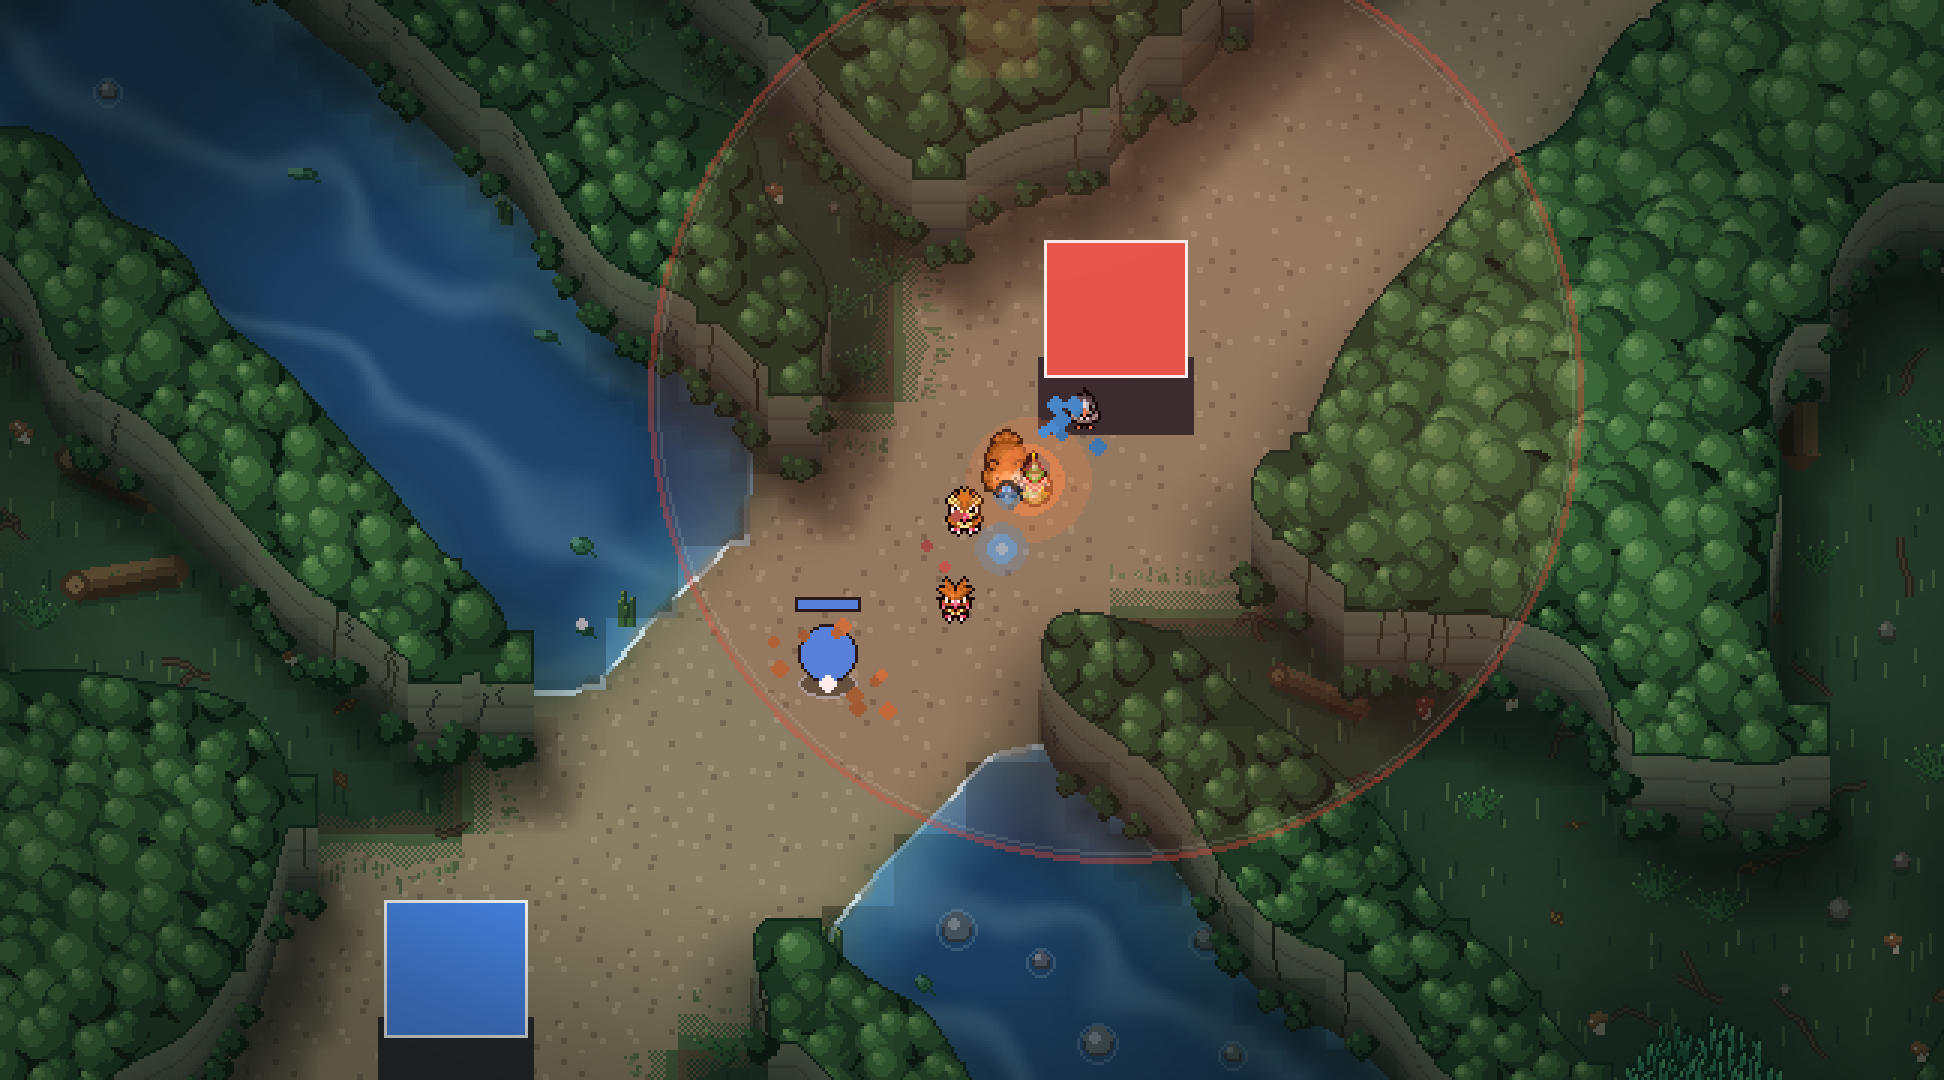
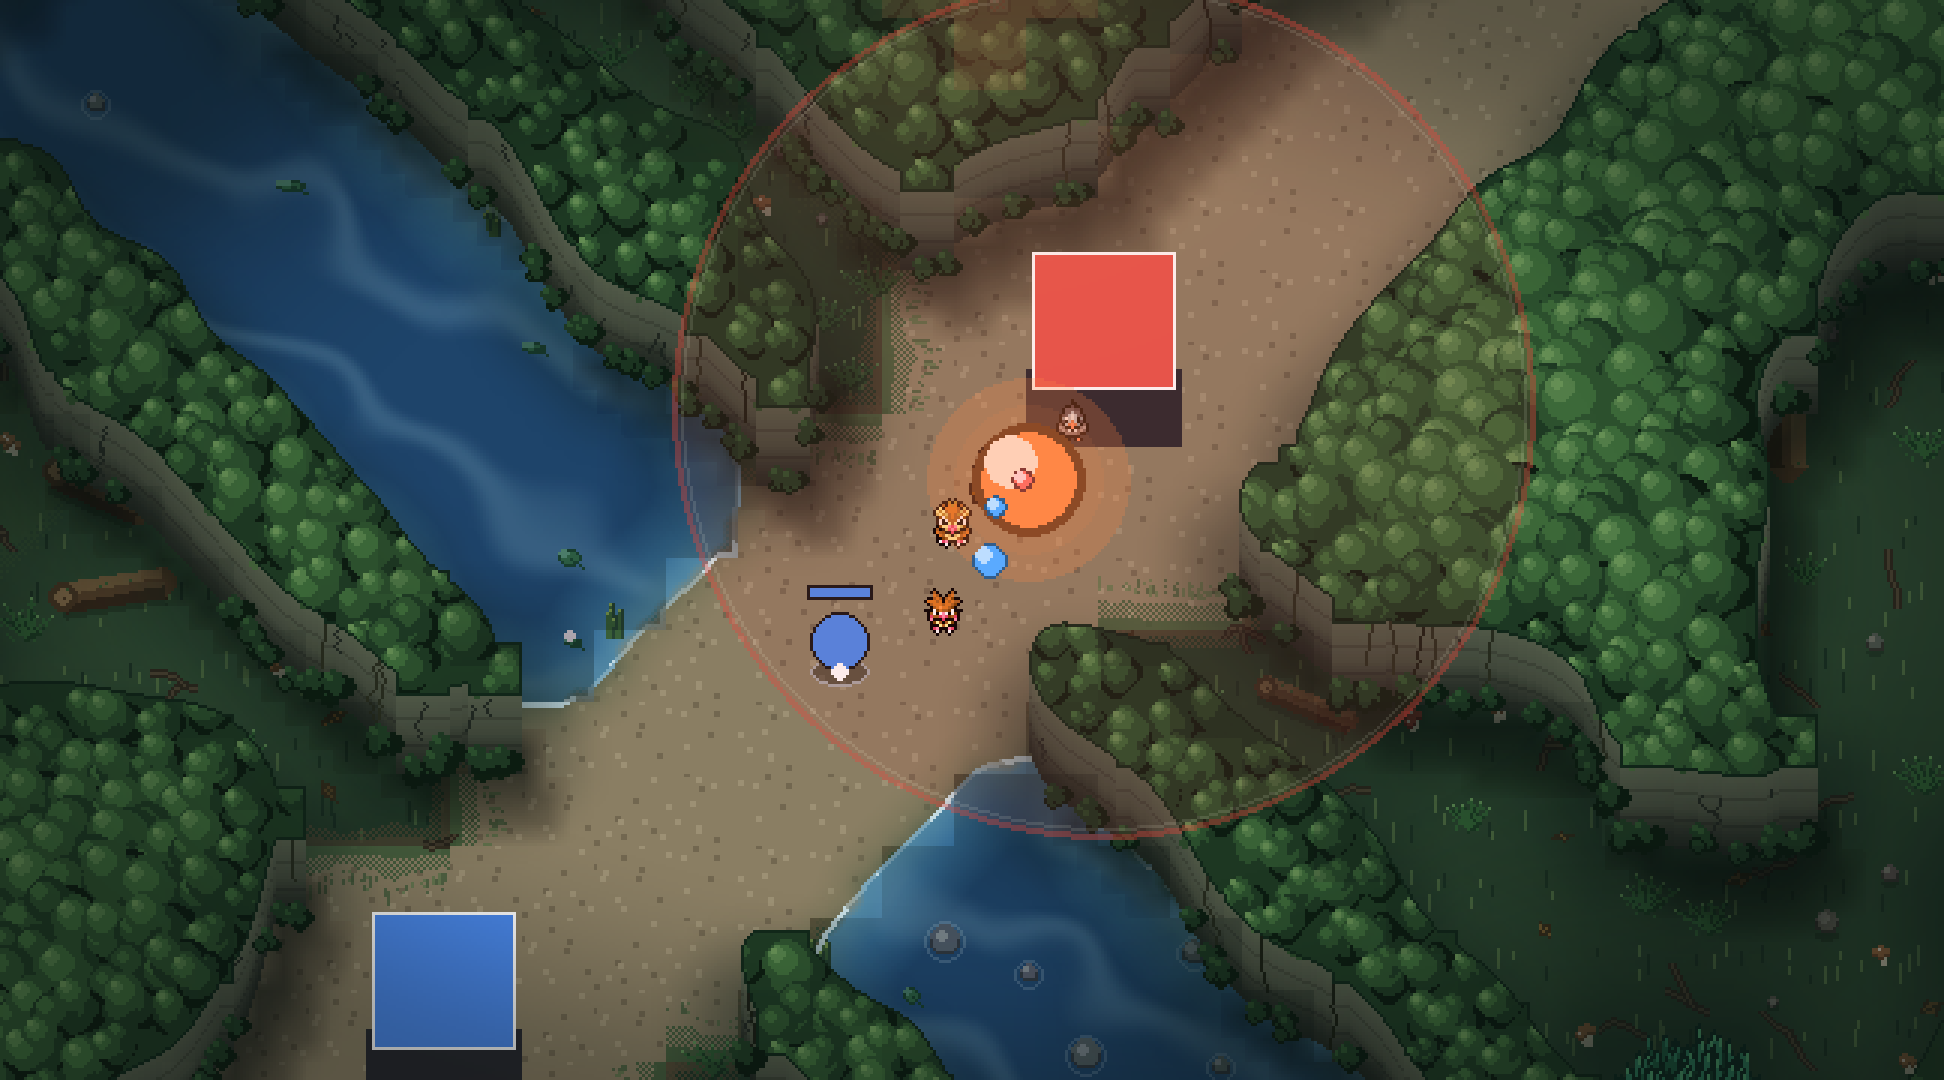
Proiettili opachi senza scia, sfera torre piu grande, gittata torre 750u (6.0 tile)
- fx.py: nuova forma "shot" opaca (sfera piena, contorno, luce alto-sx) senza
  particelle; sfera della torre molto piu grande con alone
- Gittata torri definita in unit (config.TOWER_RANGE = 750/125 = 6.0 tile),
  usata da match/world/renderer
- Screenshot step_21 aggiornati

diff --git a/game/fx.py b/game/fx.py
@@ -57,6 +57,10 @@ def _lighten(c, f=0.55):
             int(c[2] + (255 - c[2]) * f))
 
 
+def _darken(c, f=0.5):
+    return (int(c[0] * (1 - f)), int(c[1] * (1 - f)), int(c[2] * (1 - f)))
+
+
 class FXSystem:
     def __init__(self):
         self.particles: list[list] = []  # [x, y, vx, vy, life, maxlife, (r,g,b), size]
@@ -140,27 +144,27 @@ class FXSystem:
 
     def _minion_shot(self, e) -> None:
         """Pallino d'energia dei minion a distanza: piccolo (caster) o un po' piu
-        grosso (cannone), blu o rosso per squadra, che vola verso il bersaglio."""
+        grosso (cannone), blu o rosso per squadra, che vola verso il bersaglio.
+        Pallino OPACO e netto (niente particelle che lo seguono)."""
         seg = self._ab(e)
         if seg is None:
             return
         ax, ay, bx, by = seg
         col = MINION_SHOT_COLORS.get(e.get("team", 0), (230, 230, 230))
         big = e.get("big", False)
-        self._shape(kind="orb", a=(ax, ay), b=(bx, by), col=col,
-                    life=0.26, sz=0.22 if big else 0.15)
-        self._splash((bx, by), 0.25 if big else 0.18, col, n=5 if big else 3)
+        self._shape(kind="shot", a=(ax, ay), b=(bx, by), col=col,
+                    life=0.26, sz=0.26 if big else 0.18, glow=0.0)
 
     def _tower_shot(self, e) -> None:
-        """Sfera d'energia della torre (stile LoL): proiettile piu grande e
-        luminoso, colorato per squadra, con un piccolo impatto sul bersaglio."""
+        """Sfera d'energia della torre (stile LoL): proiettile OPACO molto piu
+        grande, colorato per squadra, con un alone luminoso. Niente particelle."""
         seg = self._ab(e)
         if seg is None:
             return
         ax, ay, bx, by = seg
         col = TOWER_SHOT_COLORS.get(e.get("team", 0), (230, 230, 230))
-        self._shape(kind="orb", a=(ax, ay), b=(bx, by), col=col, life=0.34, sz=0.5)
-        self._splash((bx, by), 0.6, col, n=10)
+        self._shape(kind="shot", a=(ax, ay), b=(bx, by), col=col,
+                    life=0.36, sz=0.8, glow=0.7)
 
     # --- libreria stili d'attacco (ricolorabili) ----------------------------
     # Ogni stile è un metodo (self, evento, colore) che traduce un evento della
@@ -509,6 +513,28 @@ class FXSystem:
                            (cx - px * r * 0.8, cy - py * r * 0.8)]
                     pygame.draw.polygon(overlay, (*lite, a), pts)
                     pygame.draw.polygon(overlay, (*col, a), pts, 2)
+            elif kind == "shot":
+                # Proiettile OPACO (minion/torre): sfera piena netta che avanza
+                # da A a B. Niente scia di particelle; dissolve solo a fine volo.
+                ax, ay = S(*s["a"])
+                bx, by = S(*s["b"])
+                t = 1 - f
+                cx = int(ax + (bx - ax) * t)
+                cy = int(ay + (by - ay) * t)
+                r = max(2, int(s.get("sz", 0.2) * ts))
+                aa = 255 if f > 0.22 else int(255 * max(0.0, f / 0.22))
+                glow = s.get("glow", 0.0)
+                if glow > 0.0:
+                    pygame.draw.circle(overlay, (*col, int(aa * 0.35 * glow)),
+                                       (cx, cy), int(r * 1.8))
+                    pygame.draw.circle(overlay, (*col, int(aa * 0.45 * glow)),
+                                       (cx, cy), int(r * 1.35))
+                pygame.draw.circle(overlay, (*_darken(col, 0.45), aa), (cx, cy), r)
+                pygame.draw.circle(overlay, (*col, aa), (cx, cy), max(1, r - max(1, r // 5)))
+                # luce in alto-sinistra (coerente con l'illuminazione del gioco)
+                hr = max(1, r // 2)
+                pygame.draw.circle(overlay, (*_lighten(col, 0.6), aa),
+                                   (cx - r // 3, cy - r // 3), hr)
             elif kind == "bolt":
                 # saetta: polilinea spezzata da A a B (istantanea)
                 ax, ay = S(*s["a"])

diff --git a/engine/match.py b/engine/match.py
@@ -104,7 +104,8 @@ class Match:
                 tier = s.get("tier", 1)
                 hp = config.TOWER_HP_INNER if tier >= 2 else config.TOWER_HP_OUTER
                 tw = self.world.spawn_tower(pos, team, s.get("lane", "mid"), tier,
-                                            hp=hp, attack_damage=config.TOWER_DAMAGE)
+                                            hp=hp, attack_damage=config.TOWER_DAMAGE,
+                                            attack_range=config.TOWER_RANGE)
                 setattr(tw, "color", config.TEAM_COLORS[team])
                 setattr(tw, "plates_left", config.PLATE_COUNT)   # placche (punto 6)
 

diff --git a/engine/world.py b/engine/world.py
@@ -88,7 +88,7 @@ class World:
 
     def spawn_tower(self, pos: Vec2, team: int, lane: str, tier: int,
                     hp: float = 2600.0, attack_damage: float = 80.0,
-                    attack_range: float = 6.5, attack_cooldown: float = 0.9) -> Structure:
+                    attack_range: float = 6.0, attack_cooldown: float = 0.9) -> Structure:
         t = Structure(pos=pos, team=team, kind="tower", lane=lane, tier=tier,
                       hp=hp, max_hp=hp, attack_damage=attack_damage,
                       attack_range=attack_range, attack_cooldown=attack_cooldown,

diff --git a/config.py b/config.py
@@ -155,6 +155,10 @@ CORE_EXPOSE_TOWERS_LEFT = 0
 TOWER_HP_OUTER = 2900       # torre esterna (tier 1)
 TOWER_HP_INNER = 3900       # torre interna (tier 2), più vicina al nucleo
 TOWER_DAMAGE = 110
+# Gittata delle torri, definita in "unit" stile LoL (750) con 1 tile = 125 unit.
+UNITS_PER_TILE = 125
+TOWER_RANGE_UNITS = 750
+TOWER_RANGE = TOWER_RANGE_UNITS / UNITS_PER_TILE   # = 6.0 tile
 CORE_HP = 9500
 # I minion grattano le strutture (pressione lenta) ma cresce col tempo.
 STRUCT_MINION_DMG_MULT = 0.5

diff --git a/game/renderer.py b/game/renderer.py
@@ -20,7 +20,7 @@ from .map_renderer import MapRenderer
 
 # Palette greybox (sostituita dai tileset in futuro).
 COL_BG = (18, 20, 24)
-_TOWER_RANGE_DEFAULT = 6.5   # tile: gittata torre (fallback quando non nota, es. in rete)
+_TOWER_RANGE_DEFAULT = config.TOWER_RANGE   # tile: fallback gittata (es. in rete)
 TILE_COLORS = {
     0: (58, 92, 62),     # erba / giungla
     TILE_LANE: (150, 134, 92),    # strada

diff --git a/CLAUDE.md b/CLAUDE.md
@@ -415,25 +415,29 @@ Passaggi completati:
   memoria extra sul percorso di rete (sprite pre-renderizzati, <=60 particelle).
 - LEGGIBILITA' COMBATTIMENTO (step_21): gittata delle torri nemiche + proiettili
   dei minion a distanza + sfera d'energia delle torri (stile LoL), tutto COSMETICO.
-  (1) GITTATA TORRI: game/renderer.py _TOWER_RANGE_DEFAULT + Renderer.draw_tower_ranges
-  disegna attorno a OGNI torre nemica viva un cerchio di pericolo (decalco rosso
-  translucido + anello rosso pulsante, sin su `now`); appare solo quando il
-  giocatore e' vicino al bordo della gittata (near=6 tile, da player_pos) per non
-  intasare lo schermo, cosi "sai dove fermarti". Chiamato da match_scene.draw e
-  net_match_scene.draw dopo renderer.draw (sopra la mappa). In rete le Structure
-  non portano attack_range -> fallback 6.5 tile. (2) EVENTI FX (engine/match.py
-  _try_attack): oltre al colpo dei Pokemon, ora emette anche "tower_shot" (torre,
-  con team) e "minion_shot" (solo minion caster/cannone, con team e `big` per il
-  cannone); i melee NON sparano. Sono eventi COSMETICI (lista fx_events, il danno
-  resta istantaneo come prima: nessun cambto di logica). (3) DISEGNO (game/fx.py):
-  MINION_SHOT_COLORS/TOWER_SHOT_COLORS colorano per SQUADRA (blu=0, rosso=1, non
-  per tipo); _minion_shot = pallino "orb" piccolo (0.15) o piu' grosso per il
-  cannone (0.22); _tower_shot = sfera "orb" grande (0.5) e luminosa + impatto.
-  Riusano la forma orb esistente (alone + nucleo chiaro) che viaggia da A a B.
-  NOTA: la scena di rete non trasmette ancora gli fx_events, quindi li' si vede
-  la gittata delle torri ma non (per ora) i proiettili. Screenshot:
-  screenshots/step_21.png (vista), step_21_zoom.png (ravvicinato: sfera torre +
-  pallini blu/rossi + anello gittata) e step_21_over.png (mappa).
+  GITTATA definita in "unit" stile LoL: config.TOWER_RANGE = TOWER_RANGE_UNITS(750)
+  / UNITS_PER_TILE(125) = 6.0 tile. La passa match._build_structures a spawn_tower
+  (default world.spawn_tower allineato a 6.0); renderer _TOWER_RANGE_DEFAULT =
+  config.TOWER_RANGE (fallback in rete, dove le Structure non portano attack_range).
+  (1) GITTATA TORRI: Renderer.draw_tower_ranges disegna attorno a OGNI torre nemica
+  viva un cerchio di pericolo (decalco rosso translucido + anello rosso pulsante,
+  sin su `now`); appare solo quando il giocatore e' vicino al bordo (near=6 tile, da
+  player_pos), cosi "sai dove fermarti". Chiamato da match_scene.draw e
+  net_match_scene.draw dopo renderer.draw (sopra la mappa). (2) EVENTI FX
+  (engine/match.py _try_attack): oltre al colpo dei Pokemon, emette anche
+  "tower_shot" (torre, con team) e "minion_shot" (solo minion caster/cannone, con
+  team e `big` per il cannone); i melee NON sparano. Eventi COSMETICI (lista
+  fx_events, il danno resta istantaneo: nessun cambio di logica). (3) DISEGNO
+  (game/fx.py): MINION_SHOT_COLORS/TOWER_SHOT_COLORS colorano per SQUADRA (blu=0,
+  rosso=1, non per tipo). Nuova forma "shot" in _draw_shapes: proiettile OPACO e
+  netto (sfera piena alfa 255 + contorno scuro _darken + luce in alto-sinistra),
+  SENZA particelle/scia; dissolve solo nell'ultimo 22% di vita. _minion_shot = shot
+  piccolo (0.18) o piu' grosso per il cannone (0.26); _tower_shot = shot MOLTO piu'
+  grande (0.8) con alone luminoso (glow 0.7). NOTA: la scena di rete non trasmette
+  ancora gli fx_events, quindi li' si vede la gittata delle torri ma non (per ora)
+  i proiettili. Screenshot: screenshots/step_21.png (vista), step_21_zoom.png
+  (ravvicinato: sfera torre grande + pallini opachi blu/rossi + anello gittata) e
+  step_21_over.png (mappa).
 
 Scelte tecniche importanti:
 - canopy NON e' piu del tutto vuoto: porta l'OVERHANG delle chiome dei muri sul
